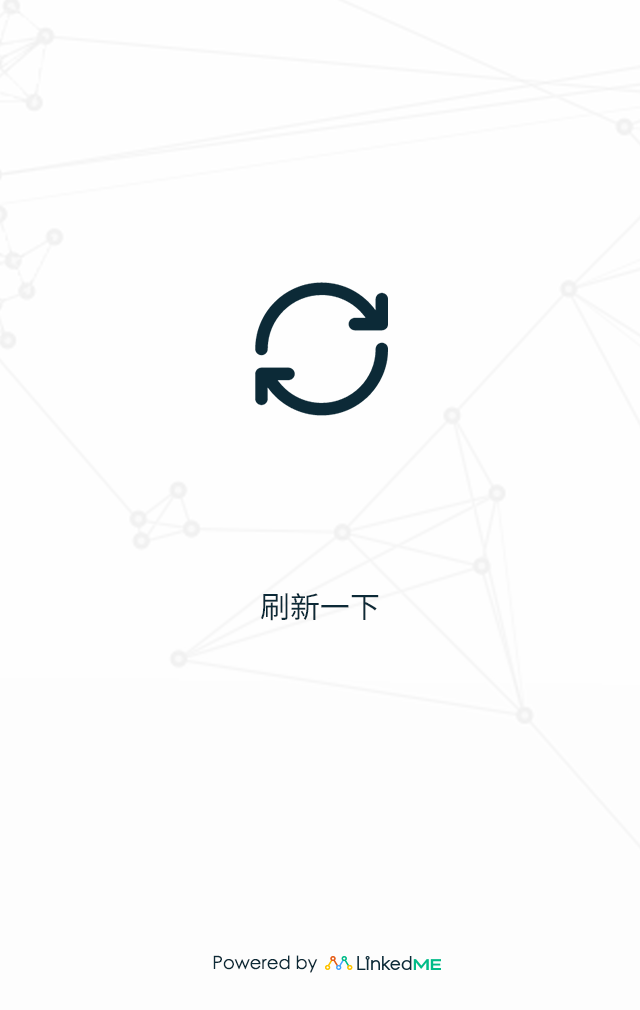
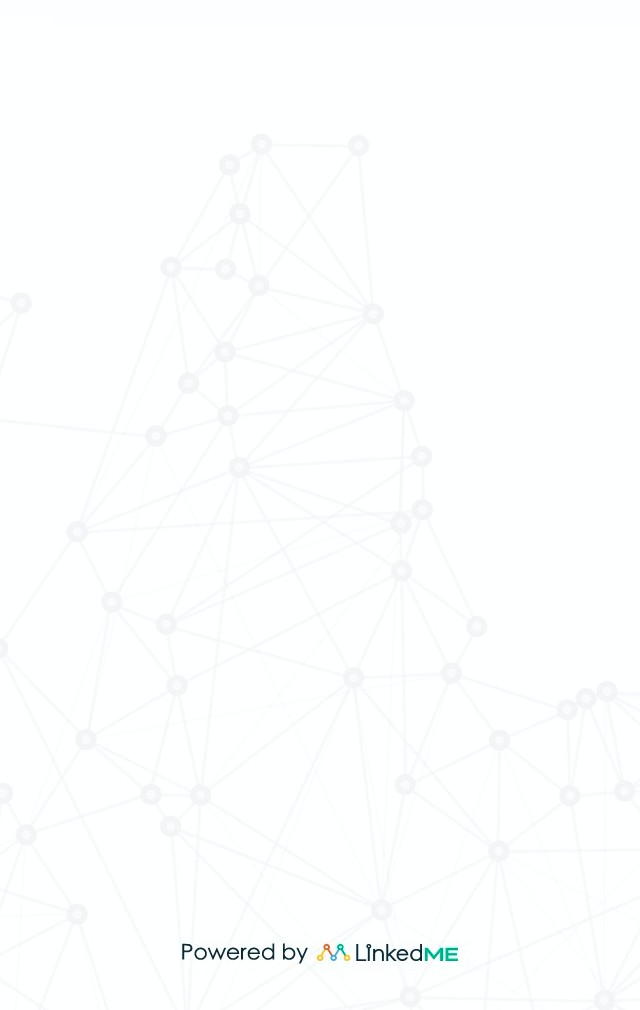
js and fix bugs

diff --git a/lkme-web/src/main/webapp/jsserver/linkedme-redirect.js b/lkme-web/src/main/webapp/jsserver/linkedme-redirect.js
@@ -75,7 +75,7 @@ function start() {
 }
 var winWidth = $(window).width(),
     winHeight = $(window).height(),
-    CONST_DS_TAG = "ds_tag",
+    VISIT_ID = "visit_id",
     deeplinkLocation = "",
     dstLocation = "",
     dsAction = {
@@ -105,7 +105,7 @@ var winWidth = $(window).width(),
                     kvs: {
                         click_id: Params.Match_id,
                         destination: b,
-                        ds_tag: Params.DsTag
+                        visit_id: Params.visitId
                     }
                 },
                 d = JSON.stringify(c);
@@ -121,7 +121,7 @@ var winWidth = $(window).width(),
                         click_id: Params.Match_id,
                         user_btn: b,
                         user_choice: c,
-                        ds_tag: Params.DsTag
+                        visit_id: Params.visitId
                     }
                 },
                 e = JSON.stringify(d);
@@ -137,9 +137,9 @@ var winWidth = $(window).width(),
         Unclear: 2
     },
 
-    weixinTipTemplate = '<div class="image-tip" width="100%" height="100%" style="position:relative;">    <div style="background-color:#ffffff;width:100%;height:100%;position:absolute; top:0;">        {img_tip}    </div>    <div style="text-align:center; width:100%; position:absolute; top:67%">         <img id="appIcon" src="{Icon_Url}" style="height:10%;"/>    </div></div>',
+    weixinTipTemplate = '<div class="image-tip" width="100%" height="100%" style="position:relative;">    <div style="background-color:#ffffff;width:100%;height:100%;position:absolute; top:0;">        {img_tip}    </div>    <div style="text-align:center; width:100%; position:absolute; top:67%">        </div></div>',
     imgInfo = "<img src=" + ResPathLang + 'openbrowser_{mobile-os}.png align="center" style="height: 100%;"/>',
-    div_goto_landingpage = '<div style="background-image:url({Bg_Url});background-size: 100% 100%;width:100%;height:100%;">    <div style = "position:absolute; top:20%; width:100%; ">        <div style="text-align:center; width:100%; ">            <img id="appIcon" src={Icon_Url} style="width:22%;"/>        </div>        <div style="text-align:center; width:100%; margin-top:10px;">            <span id="appName" style="font-size: 1.5em; color: #959595; padding: 15px 10px;">                {App_Name}            </span>        </div>    </div>    <div style="text-align:center; width:100%; position:absolute; top:56%;">        <span id="downloadTitle" style="font-size: 1em; color: #959595; padding: 15px 10px;">            {Download_title}        </span>    </div>    <div style="text-align:center; width:100%; position:absolute; top:59%;">        <span id="downloadMsg" style="font-size: 1em; border-bottom: 1px solid #959595; color: #959595; padding: 6px 10px;">            {Download_msg}        </span>    </div>    <div style="text-align:center; width:100%; position:absolute; top:70%;">        <{Element_type} id="btnGotoLandingPage" style="background-color:#FFFFFF; border: {Border_width}px solid #959595; color: #959595; padding: 6px 20px; -webkit-border-radius: 30px; -moz-border-radius: 30px; border-radius: 30px;">{Btn_landingpage_text}</{Element_type}>    </div></div>',
+    div_goto_landingpage = '<div style="background-image:url({Bg_Url});background-size: 100% 100%;width:100%;height:100%;">    <div style = "position:absolute; top:20%; width:100%; ">        <div style="text-align:center; width:100%; ">            <img id="appIcon" src={Icon_Url} style="width:22%;"/>        </div>        <div style="text-align:center; width:100%; margin-top:10px;">            <span id="appName" style="font-size: 1.5em; color: #959595; padding: 15px 10px;">                {App_Name}            </span>        </div>    </div>    <div style="text-align:center; width:100%; position:absolute; top:56%;">        <span id="downloadTitle" style="font-size: 1em; color: #959595; padding: 15px 10px;">            {Download_title}        </span>    </div>    <div style="text-align:center; width:100%; position:absolute; top:59%;">    </div>    <div style="text-align:center; width:100%; position:absolute; top:70%;">        <{Element_type} id="btnGotoLandingPage" style="background-color:#FFFFFF; border: {Border_width}px solid #959595; color: #959595; padding: 6px 20px; -webkit-border-radius: 30px; -moz-border-radius: 30px; border-radius: 30px;">{Btn_landingpage_text}</{Element_type}>    </div></div>',
     div_goto_cannot_deeplink_with_market_btn = '<div style="background-image:url(' + ResPathLang + 'oops.png);background-size: 100% 100%;width:100%;height:100%;">    <div style="text-align:center; width:100%; position:absolute; top:80%;">        <button id="btnGotoAndroidMarket" style="font-size: 1em; background-color:#FFFFFF; border: 3px solid #959595; color: #959595; padding: 6px 20px; -webkit-border-radius: 30px; -moz-border-radius: 30px; border-radius: 30px;">' + ResGotoAppStore + "</button>    </div></div>",
     div_goto_cannot_deeplink_with_download_btn = '<div style="background-image:url(' + ResPathLang + 'oops.png);background-size: 100% 100%;width:100%;height:100%;">    <div style="text-align:center; width:100%; position:absolute; top:80%;">        <button id="btnGotoAndroidDownload" style="font-size: 1em; background-color:#FFFFFF; border: 3px solid #959595; color: #959595; padding: 6px 20px; -webkit-border-radius: 30px; -moz-border-radius: 30px; border-radius: 30px;">' + ResDownloadAPK + "</button>    </div></div>",
     div_allow_me_deeplink = '<div style="background-image:url(' + ResPathLang + 'allowme.png);background-size: 100% 100%;width:100%;height:100%;">    <div style="text-align:center; width:100%; position:absolute; top:35%;">        <p id="textCountDown" style="font-size: 1em; color: #959595; padding: 6px 20px; -webkit-border-radius: 30px; -moz-border-radius: 30px; border-radius: 30px;"></p>    </div></div>',
@@ -163,9 +163,9 @@ var winWidth = $(window).width(),
             window.addEventListener(a, b)
         },
         windowUrlAddTag: function () {
-            if (window.location.search.indexOf(CONST_DS_TAG) < 0) {
+            if (window.location.search.indexOf(VISIT_ID) < 0) {
                 var a = Math.floor(1e6 * Math.random()),
-                    b = CONST_DS_TAG + "=" + a;
+                    b = VISIT_ID + "=" + a;
                 if (window.location.search == undefined || window.location.search != "") {
                     window.location.search += "&" + b;
                 } else {

diff --git a/lkme-web/src/main/webapp/jsserver/cn/langconfig.js b/lkme-web/src/main/webapp/jsserver/cn/langconfig.js
@@ -4,7 +4,7 @@
 var ResPath = "https://lkme.cc/jsserver/";
 var ResPathLang = ResPath + "cn/";
 var ResGotoAppStore = "前往应用商店";
-var ResGotoAppStoreDownload = "前往应用商店下载";
+var ResGotoAppStoreDownload = "前往AppStore下载";
 var ResPleaseOpenAppStore = "请打开一款应用市场搜索下载";
 var ResDownloadAPK = "下载APK";
-var ResDefaultDownloadMsg = "下载一下又不会丢内容";
+var ResDefaultDownloadMsg = "";

diff --git a/linkedme-api/src/main/java/cc/linkedme/servlet/UrlServlet.java b/linkedme-api/src/main/java/cc/linkedme/servlet/UrlServlet.java
@@ -97,7 +97,7 @@ public class UrlServlet extends HttpServlet {
         DeepLink deepLink = deepLinkService.getDeepLinkInfo(deepLinkId, appId);
         AppInfo appInfo = appService.getAppById(appId); // 根据appId获取app信息
 
-        if (appInfo == null) {
+        if (deepLink == null || appInfo == null) {
             response.sendRedirect("/index.jsp"); // TODO 重定向为默认配置页面
             return;
         }
@@ -131,22 +131,25 @@ public class UrlServlet extends HttpServlet {
         boolean isAndroid = false;
         String countType;
         if (osFamily.equals("iOS")) {
-            if ("apple_store".equals(appInfo.getIos_search_option())) {
-                url = appInfo.getIos_store_url();
-                isDownloadDirectly = true;
-            } else if ("custom_url".equals(appInfo.getIos_search_option())) {
-                url = appInfo.getIos_custom_url();
-                isCannotGoMarket = true;
-                isDownloadDirectly = true;
-            } else if ("not_url".equals(appInfo.getIos_search_option())) {
-                isCannotGoMarket = true;
-            }
-
-            scheme = appInfo.getIos_uri_scheme();
             isIOS = true;
-            //universe link是否需要team_id, appInfo.getIos_team_id() != null
-            if (appInfo.getIos_bundle_id() != null && Integer.parseInt(osMajor) >= 9) {
-                isUniversallink = true;
+
+            if (appInfo.hasIos()) {
+                if ("apple_store".equals(appInfo.getIos_search_option())) {
+                    url = appInfo.getIos_store_url();
+                    isDownloadDirectly = true;
+                } else if ("custom_url".equals(appInfo.getIos_search_option())) {
+                    url = appInfo.getIos_custom_url();
+                    isCannotGoMarket = true;
+                    isDownloadDirectly = true;
+                }
+                scheme = appInfo.getIos_uri_scheme();
+                // universe link是否需要team_id, appInfo.getIos_team_id() != null
+                if (appInfo.getIos_bundle_id() != null && Integer.parseInt(osMajor) >= 9) {
+                    isUniversallink = true;
+                }
+            } else {
+                url = appInfo.getIos_not_url();
+                isCannotGoMarket = true;
             }
 
             if ("1".equals(urlScanParam)) {
@@ -165,13 +168,20 @@ public class UrlServlet extends HttpServlet {
             }
 
         } else if (osFamily.equals("Android")) {
-            if ("google_play".equals(appInfo.getAndroid_search_option())) {
-                url = appInfo.getGoogle_paly_url();
-            } else if ("custom_url".equals(appInfo.getAndroid_search_option())) {
-                url = appInfo.getAndroid_custom_url();
-            }
-            scheme = appInfo.getAndroid_uri_scheme();
             isAndroid = true;
+            if (appInfo.hasAndroid()) {
+                if ("google_play".equals(appInfo.getAndroid_search_option())) {
+                    url = appInfo.getGoogle_paly_url();
+                    isDownloadDirectly = false;
+                } else if ("custom_url".equals(appInfo.getAndroid_search_option())) {
+                    url = appInfo.getAndroid_custom_url();
+                    isDownloadDirectly = true;
+                }
+                scheme = appInfo.getAndroid_uri_scheme();
+            } else {
+                url = appInfo.getAndroid_not_url();
+                
+            }
 
             if ("1".equals(urlScanParam)) {
                 countType = "pc_adr_scan";
@@ -215,9 +225,9 @@ public class UrlServlet extends HttpServlet {
 
         // iPad
 
-        // 如果连接里包含"ds_tag",说明之前已经记录过一次计数和日志 TODO 把ds_tag改成lkme_tag(或者click_tag)
-        String dsTag = request.getParameter("ds_tag");
-        if (dsTag == null) {
+        // 如果连接里包含"visit_id",说明之前已经记录过一次计数和日志
+        String visitId = request.getParameter("visit_id");
+        if (visitId == null) {
             // 点击计数
             clickCount(deepLinkId, countType);
             // 记录日志
@@ -265,29 +275,34 @@ public class UrlServlet extends HttpServlet {
             isUC = true;
         }
 
+        String appLogo = "../img/icon.png";
+        if(appInfo.getApp_logo() != null && appInfo.getApp_logo().startsWith("http")) {
+            appLogo = appInfo.getApp_logo();
+        }
+
         request.setAttribute("AppName", appInfo.getApp_name());
         request.setAttribute("Pkg", appInfo.getAndroid_package_name());
         request.setAttribute("BundleID", appInfo.getIos_bundle_id());
         request.setAttribute("AppID", appId);
-        request.setAttribute("IconUrl", "../img/icon.png"); // TODO
+        request.setAttribute("IconUrl", appLogo);
         request.setAttribute("Url", url);
         request.setAttribute("Match_id", uriArr[2]);
 
-        request.setAttribute("Download_msg", "Download_msg"); // TODO
-        request.setAttribute("Download_btn_text", "Download_btn_text"); // TODO
-        request.setAttribute("Download_title", "Download_title"); // TODO
+        request.setAttribute("Download_msg", ""); // TODO
+        request.setAttribute("Download_btn_text", ""); // TODO
+        request.setAttribute("Download_title", ""); // TODO
 
 
         request.setAttribute("Chrome_major", userAgentMajor);
         request.setAttribute("Ios_major", osMajor);
-        request.setAttribute("Redirect_url", "http://www.baidu.com"); // TODO
+        request.setAttribute("Redirect_url", "http://www.linkedme.cc"); // TODO
 
         request.setAttribute("YYB_url", "http://a.app.qq.com/o/simple.jsp?pkgname=" + appInfo.getAndroid_package_name());
         request.setAttribute("Scheme", scheme);
         request.setAttribute("Host", "linkedme"); // TODO
         request.setAttribute("AppInsStatus", 0); // TODO
         request.setAttribute("TimeStamp", System.currentTimeMillis()); // deepLink 创建时间?
-        request.setAttribute("DsTag", "DsTag"); // TODO
+        request.setAttribute("visitId", "visitId"); // TODO
 
         request.setAttribute("isIOS", isIOS);
         request.setAttribute("isAndroid", isAndroid);

diff --git a/linkedme-api/src/main/java/cc/linkedme/service/sdkapi/impl/LMSdkServiceImpl.java b/linkedme-api/src/main/java/cc/linkedme/service/sdkapi/impl/LMSdkServiceImpl.java
@@ -196,6 +196,9 @@ public class LMSdkServiceImpl implements LMSdkService {
 
     private static String getClickIdFromUri(String deepLinkUrl) {
         String clickId = "";
+        if(Strings.isNullOrEmpty(deepLinkUrl)) {
+            return "0";
+        }
         if (deepLinkUrl.startsWith("http") || deepLinkUrl.startsWith("https")) {
             clickId = DeepLinkUtil.getDeepLinkFromUrl(deepLinkUrl);
         } else {
@@ -230,8 +233,7 @@ public class LMSdkServiceImpl implements LMSdkService {
             String osMajorVersion = osVersionArr[0];
             if (Integer.parseInt(osMajorVersion) >= UNIVERSE_LINK_IOS_VERSION) {
                 deepLinkUrl = openParams.universal_link_url;
-                if ((!Strings.isNullOrEmpty(deepLinkUrl)) && deepLinkUrl.startsWith("http") && (!deepLinkUrl.contains("ds_tag"))) { // TODO
-                                                                                                                                    // ds_tag改成lkme_tag
+                if ((!Strings.isNullOrEmpty(deepLinkUrl)) && deepLinkUrl.startsWith("http") && (!deepLinkUrl.contains("visit_id"))) {
                     isDirectForward = true;
                 }
             }

diff --git a/linkedme-commons/src/main/java/cc/linkedme/commons/mail/MailSender.java b/linkedme-commons/src/main/java/cc/linkedme/commons/mail/MailSender.java
@@ -115,7 +115,7 @@ public class MailSender {
         String url = "http://www.weibo.com";
         String resetPwdUrl = "https://www.linkedme.cc/dashboard/index.html#/access/resetpwd/123456";
         MailSender.sendHtmlMail("support@linkedme.cc", "hello, wrshine", "this is a test mail. <br /> from java program. <br /> <a href="+resetPwdUrl+">W3School</a>");
-        MailSender.sendHtmlMail("wrshine@163.com", "hello, wrshine", "this is a test mail. <br /> from java program. <br /> <a href="+resetPwdUrl+">W3School</a>");
+        MailSender.sendHtmlMail("276386627@qq.com", "hello, wrshine", String.format("亲爱的用户:<br /><br />LinkedME重置密码的链接为:  <a href=%s>点击链接</a>. <br /> 有任何问题可以咨询我们,Email:support@linkedme.cc.<br /><br />谢谢!<br /><br />LinkedME团队", resetPwdUrl));
         System.out.println("success");
     }
 }

diff --git a/linkedme-api/src/main/java/cc/linkedme/service/webapi/impl/UserServiceImpl.java b/linkedme-api/src/main/java/cc/linkedme/service/webapi/impl/UserServiceImpl.java
@@ -101,7 +101,7 @@ public class UserServiceImpl implements UserService {
             String resetPwdUrl = "https://www.linkedme.cc/dashboard/index.html#/access/resetpwd/" + randomCode;
             if (result) {
                 MailSender.sendHtmlMail(userParams.email, "Change Your Password!",
-                        String.format("点击下面的链接重新设置密码. <br /> <a href=%s>点击链接</a>", resetPwdUrl));
+                        String.format("亲爱的用户:<br /><br />LinkedME重置密码的链接为:  <a href=%s>点击链接</a>. <br /> 有任何问题可以咨询我们,Email:support@linkedme.cc.<br /><br />谢谢!<br /><br />LinkedME团队", resetPwdUrl));
                 return true;
             }
             return false;

diff --git a/linkedme-api/src/main/java/cc/linkedme/data/model/AppInfo.java b/linkedme-api/src/main/java/cc/linkedme/data/model/AppInfo.java
@@ -251,6 +251,22 @@ public class AppInfo implements Serializable {
         this.custom_landing_page = custom_landing_page;
     }
 
+    public boolean hasIos() {
+        return ((ios_android_flag & 8) >> 3) == 1;
+    }
+
+    public boolean iosUniverseLinkEnable() {
+        return ((ios_android_flag & 4) >> 2) == 1;
+    }
+
+    public boolean hasAndroid() {
+        return ((ios_android_flag & 2) >> 1) == 1;
+    }
+
+    public boolean appLinksEnable() {
+        return (ios_android_flag & 1) == 1;
+    }
+
     public String toJson() {
         boolean has_ios = ((ios_android_flag & 8) >> 3) == 1;
         boolean ios_enable_ulink = ((ios_android_flag & 4) >> 2) == 1;

diff --git a/linkedme-web/src/main/java/cc/linkedme/api/resources/App.java b/linkedme-web/src/main/java/cc/linkedme/api/resources/App.java
@@ -255,7 +255,9 @@ public class App {
 
     @Path("/images/{name}.{type}")
     @GET
-    public void showImg(@PathParam("name") String imageName, @PathParam("type") String type, @Context HttpServletResponse response)
+    public void showImg(@PathParam("name") String imageName,
+                        @PathParam("type") String type,
+                        @Context HttpServletResponse response)
             throws IOException {
         InputStream inputStream = null;
         OutputStream out = null;

diff --git a/linkedme-commons/src/main/java/cc/linkedme/commons/util/Base62.java b/linkedme-commons/src/main/java/cc/linkedme/commons/util/Base62.java
@@ -69,7 +69,7 @@ public class Base62 {
     }
 
     public static void main(String[] args) {
-        long num = 10036;
+        long num = 3373567987154946L;
         System.out.println("Number: " + num);
 
         String encoding = null;
